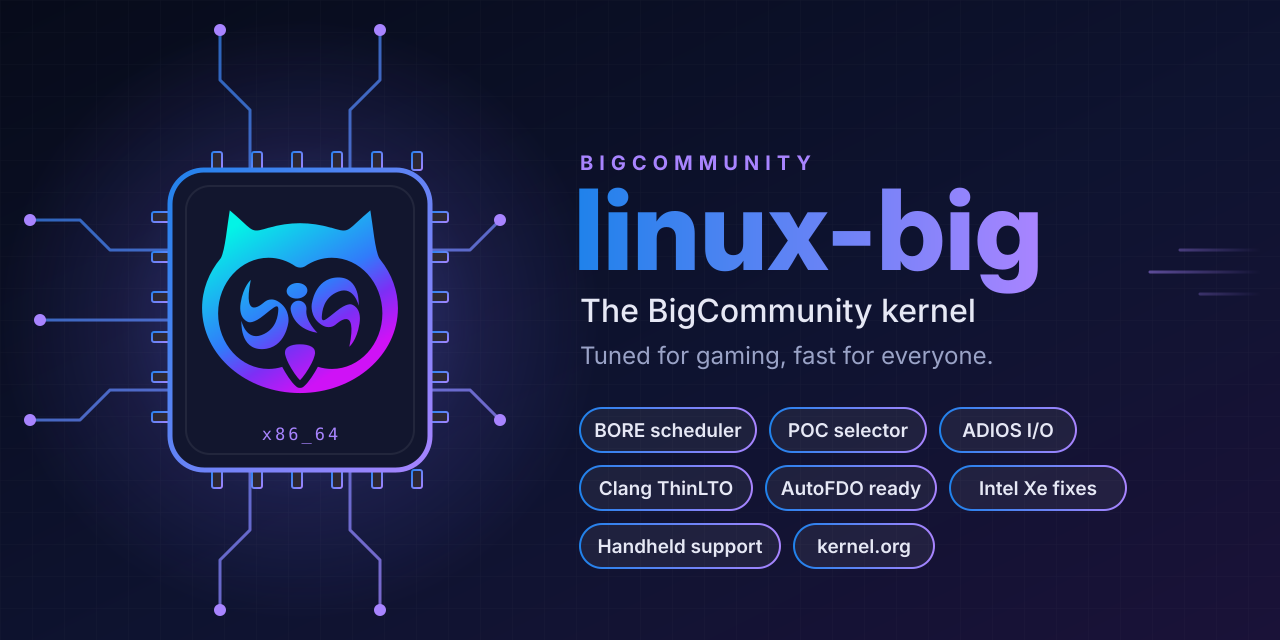
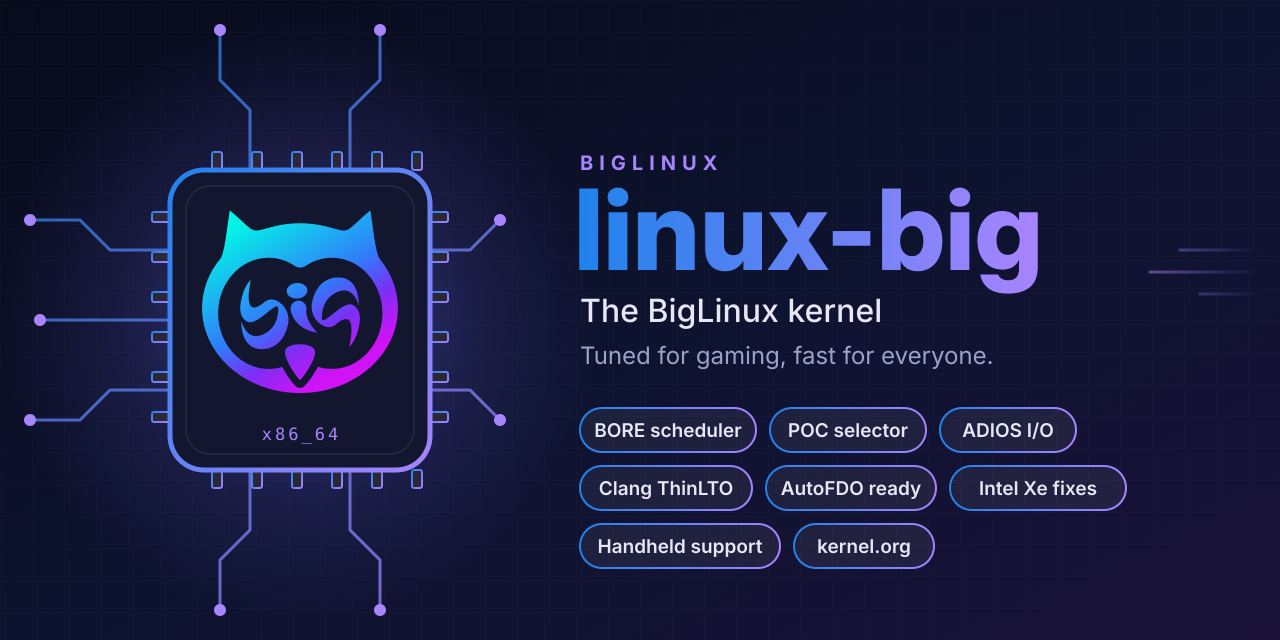
🎨 style: name it BigLinux where users see it
- big-secureboot 1.1.4: the firmware boot entry is now "BigLinux Secure
  Boot", and its messages speak of the BigLinux key. The entry made by
  1.1.3 and earlier is still recognised, so "enable" replaces it instead of
  adding a second one, and "disable" and "status" find it; an upgrade
  alone leaves the firmware untouched.
- linux-big72/73 and linux-big: package descriptions, KBUILD_BUILD_HOST
  (uname -v) and CONFIG_DEFAULT_HOSTNAME say biglinux.
- README and banner.

Unchanged: the certificate ("BigCommunity Secure Boot 2026", renaming it
means a new key for everyone to enroll), BIGCOMMUNITY_SB_KEY, the SBAT
vendor field, package names, and the mentions of the BigCommunity
repositories, CI and organization.

Changed region(s): [[0.5312, 0.4688, 0.7812, 0.5], [0.5, 0.2188, 0.5938, 0.2812]]

diff --git a/.github/scripts/test_bump_kernel.py b/.github/scripts/test_bump_kernel.py
@@ -96,7 +96,7 @@ class RealPkgbuild(unittest.TestCase):
         new = bump.drop_patch(REAL_PKGBUILD, name)
         self.assertEqual(bump.source_entries(new), entries[:index] + entries[index + 1 :])
         self.assertEqual(bump.checksums(new), sums[:index] + sums[index + 1 :])
-        self.assertIn("# BigCommunity: Intel display and Xe fixes", new)
+        self.assertIn("# BigLinux: Intel display and Xe fixes", new)
 
 
 class Failure(unittest.TestCase):

diff --git a/README.md b/README.md
@@ -1,15 +1,15 @@
 <p align="center">
-  <img src=".github/assets/banner.png" alt="linux-big — the BigCommunity kernel" width="100%">
+  <img src=".github/assets/banner.png" alt="linux-big — the BigLinux kernel" width="100%">
 </p>
 
-# linux-big — the BigCommunity kernel
+# linux-big — the BigLinux kernel
 
-**linux-big** is the kernel of [BigCommunity](https://communitybig.org). It is
+**linux-big** is the kernel of [BigLinux](https://www.biglinux.com.br). It is
 built from the official [kernel.org](https://www.kernel.org) sources, keeps the
-configuration and hardware patches of the Manjaro kernel BigCommunity already
+configuration and hardware patches of the Manjaro kernel BigLinux already
 ships, and adds what can only be gained at compile time: a desktop-oriented CPU
 scheduler, a faster idle CPU selector, an adaptive I/O scheduler, a Clang/LLVM
-ThinLTO build ready for profile-guided optimisation, and BigCommunity's own
+ThinLTO build ready for profile-guided optimisation, and BigLinux's own
 fixes for Intel graphics.
 
 The goal is simple: a kernel that feels faster under load, whether you are
@@ -46,12 +46,12 @@ gaming or not, on the hardware our users actually have.
 | | Where it comes from |
 |---|---|
 | **Kernel source** | [kernel.org](https://www.kernel.org), stable series, verified by checksum |
-| **Base configuration** | the Manjaro kernel configuration used by BigCommunity |
+| **Base configuration** | the Manjaro kernel configuration used by BigLinux |
 | **Hardware patches** | Manjaro's set: AMD GPU and display fixes, Realtek audio, Intel Wi-Fi, handhelds |
 | **BORE CPU scheduler** | [firelzrd/bore-scheduler](https://github.com/firelzrd/bore-scheduler), by Masahito Suzuki |
 | **POC idle CPU selector** | [firelzrd/poc-selector](https://github.com/firelzrd/poc-selector), by Masahito Suzuki |
 | **ADIOS I/O scheduler** | [firelzrd/adios](https://github.com/firelzrd/adios), by Masahito Suzuki |
-| **Intel Xe / i915 fixes** | BigCommunity, sent upstream and reviewed on the kernel mailing lists |
+| **Intel Xe / i915 fixes** | BigLinux, sent upstream and reviewed on the kernel mailing lists |
 | **Compiler** | Clang/LLVM with ThinLTO and AutoFDO support |
 
 ### BORE — responsiveness under load
@@ -103,7 +103,7 @@ Profile-guided optimisation is where the measurable gain is.
 
 ### Intel Xe fixes — for Arrow Lake and Meteor Lake
 
-BigCommunity found and fixed a bug on Intel Arrow Lake / Meteor Lake graphics:
+BigLinux found and fixed a bug on Intel Arrow Lake / Meteor Lake graphics:
 on the media GT, the CPU could read stale data the graphics firmware had
 already written, which showed up as **TLB invalidation stalls of ~2.3 s** and,
 on some machines, as freezes under video workloads. The fix implements
@@ -147,7 +147,7 @@ Each series has its own patches, in its directory —
 [`linux-big73/`](linux-big73), [`linux-big72/`](linux-big72) — applied in the
 order its PKGBUILD lists them. The tables describe the current series, 7.3.
 
-**BigCommunity — Intel graphics**
+**BigLinux — Intel graphics**
 
 | Patch | What it does |
 |---|---|
@@ -184,7 +184,7 @@ your current kernel — it does not replace it.
 sudo pacman -S linux-big linux-big-headers
 ```
 
-`linux-big` brings the series BigCommunity recommends — 7.2 today — and keeps
+`linux-big` brings the series BigLinux recommends — 7.2 today — and keeps
 following it: when the next one is approved, the update installs it next to
 the one you have. A series still in testing is installed by name, and goes
 next to the one you have:
@@ -324,7 +324,7 @@ series being there. After that:
 ## NVIDIA and other kernel modules
 
 Like the Manjaro kernels, linux-big has prebuilt modules, named
-`<kernel>-<module>` (`linux-big73-nvidia-open` and so on). On BigCommunity they
+`<kernel>-<module>` (`linux-big73-nvidia-open` and so on). On BigLinux they
 are chosen and installed by
 [big-driver-manager-cli](https://github.com/biglinux/big-driver-manager-cli),
 which replaced mhwd: on the live system (`big-driver-manager-live.service`), in the
@@ -418,11 +418,11 @@ needed; an explicit `LLVM=` on the command line still overrides it.
 
 ## Secure Boot and anti-cheat
 
-The kernel image and every module package are signed with the BigCommunity
-Secure Boot key (`secureboot/sign.sh`; the certificate is
-`secureboot/bigcommunity-secureboot-2026.crt`). The CI provides the key to
-this repository's builds only (big-comm/build-package,
-`scripts/secureboot-key.sh`). A build without the key, a local one for
+The kernel image and every module package are signed with the BigLinux
+Secure Boot key (`secureboot/sign.sh`; the certificate, which keeps its name
+"BigCommunity Secure Boot 2026", is `secureboot/bigcommunity-secureboot-2026.crt`).
+The CI provides the key to this repository's builds only
+(big-comm/build-package, `scripts/secureboot-key.sh`). A build without the key, a local one for
 example, signs nothing. With Secure Boot off the signature is ignored and
 nothing changes. `.github/scripts/test_secureboot.py` fails if a series or a
 module package stops signing.
@@ -441,7 +441,7 @@ sudo big-secureboot disable   # take it out of the boot (turn Secure Boot off fi
 The package brings:
 
 - Fedora's shim, signed by Microsoft with both the 2011 and the 2023 CA.
-- A GRUB signed with the BigCommunity key, with every module built in.
+- A GRUB signed with the BigLinux key, with every module built in.
 - The certificate, which the user enrolls as a MOK.
 - What Easy Anti-Cheat Linux v2 checks besides Secure Boot: kexec off
   (`/usr/lib/sysctl.d/90-big-secureboot.conf`) and the Intel IOMMU on
@@ -460,7 +460,7 @@ Booted with Secure Boot, linux-big locks itself down to integrity mode
 Only signed modules load then: the packaged ones (`linux-bigNN-nvidia*`, …)
 are signed, while a module built locally by DKMS is not. Hibernation is not
 available either. With Secure Boot off nothing changes. Under Secure Boot,
-only linux-big boots, since it is the kernel signed with the BigCommunity key.
+only linux-big boots, since it is the kernel signed with the BigLinux key.
 
 ---
 
@@ -567,7 +567,7 @@ big-kernel/
 - [ ] **linux-big-lts** — the 6.18 long-term series, as a conservative fallback
 - [x] The 15 kernel modules Manjaro builds for its kernels, kept in step automatically
 - [x] New releases of the kernel series picked up, checked and built for testing automatically
-- [ ] Selectable in the BigCommunity ISO builder
+- [ ] Selectable in the BigLinux ISO builder
 - [ ] **AutoFDO profile** from real gaming and desktop workloads, shipped in the package
 - [ ] **Propeller** on top of AutoFDO
 - [ ] Published benchmarks: scheduler latency, frame times and build times, side by side with other kernels on the same hardware
